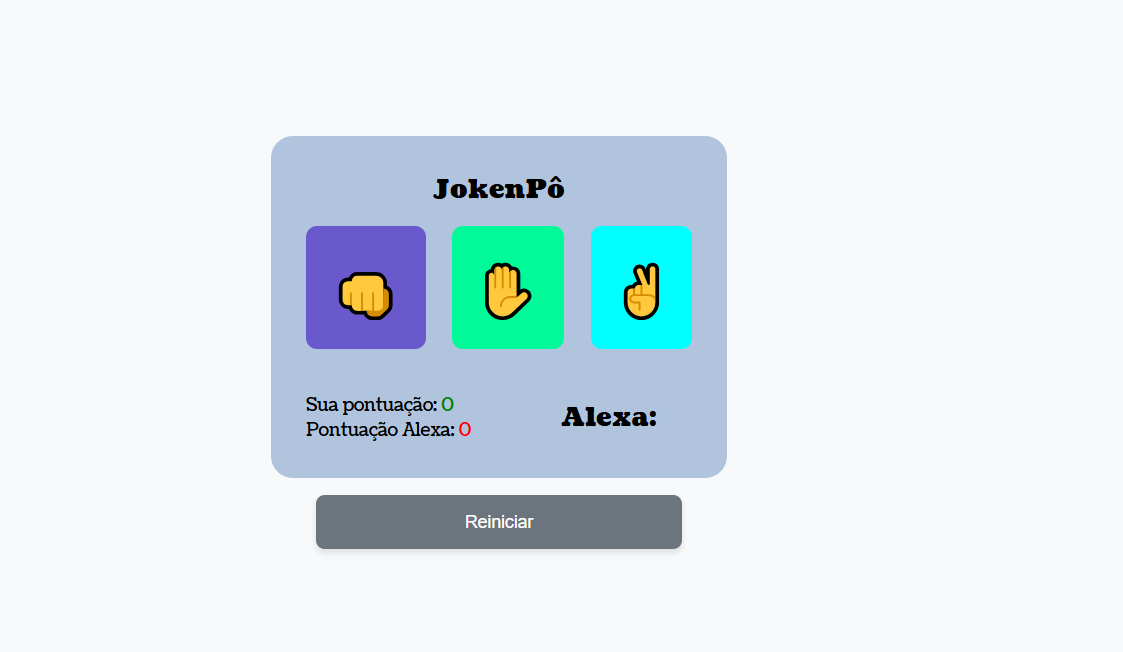
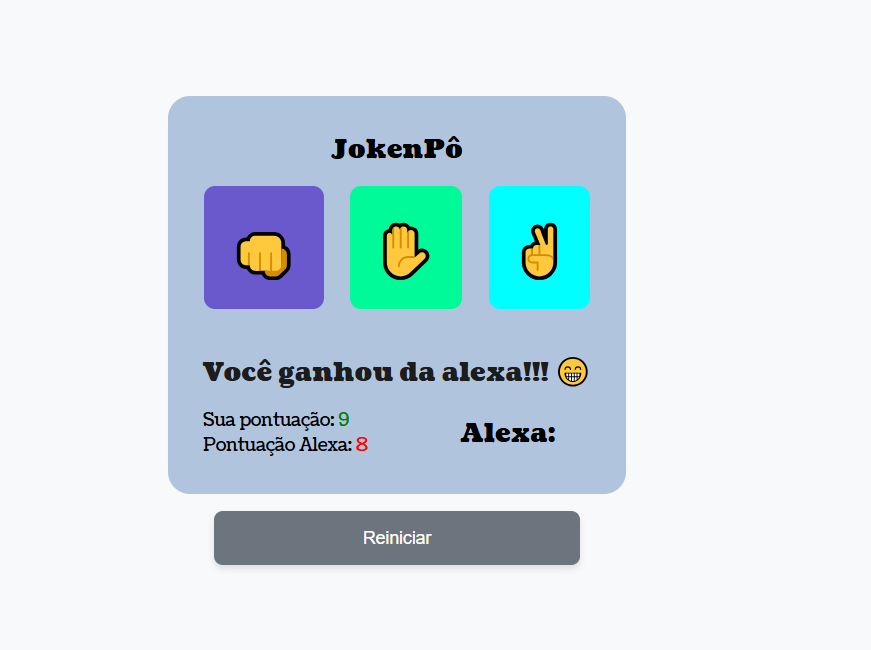
melhorando o projeto: mostrando no conteiner quem ganhou, settimeout depois que reinicia

Changed region(s): [[0.186, 0.1231, 0.744, 0.8923]]

diff --git a/index.html b/index.html
@@ -17,6 +17,7 @@
                 <button id="papel" class="button button-papel" type="button">&#x270B</button>
                 <button id="tesoura" class="button button-tesoura" type="button">&#x270C</button>
             </div>
+            <h2 class="textoVitoria"></h2>
             <div class="pontuação">
                 <div class="pontuação__score">
                     <h2 class="pontuação__texto pontuação__texto-sua">Sua pontuação: <span class="pontuação__texto_destaque-sua">0</span></h2>

diff --git a/assets/styles/main.css b/assets/styles/main.css
@@ -63,6 +63,14 @@
     border-radius: 10px;
 }
 
+/* TEXTO DE QUEM GANHOU/EMPATOU */
+
+.textoVitoria{
+    font-size: 1.5rem;
+    font-weight: 700;
+}
+
+
 /* PONTUAÇÃO */
 
 .pontuação{
